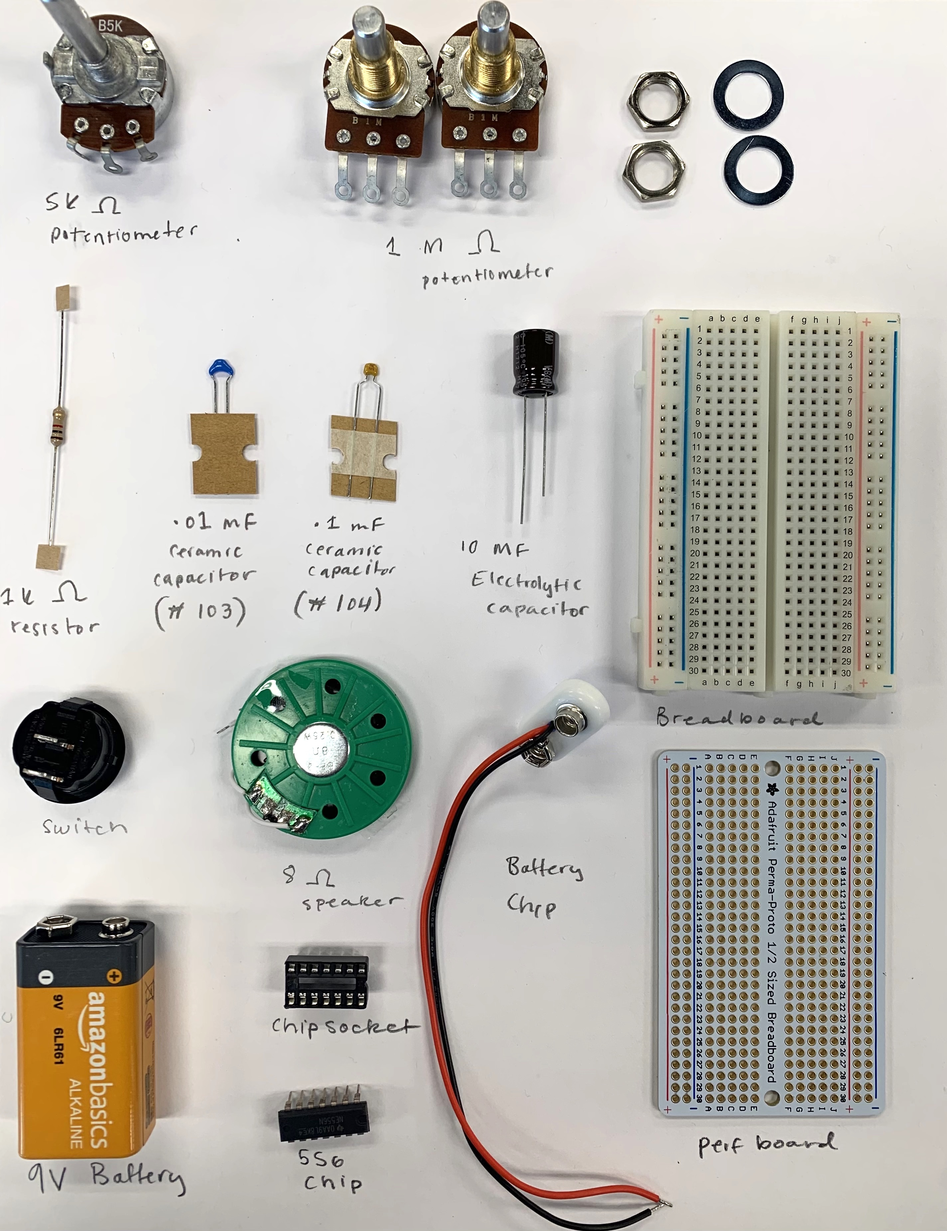
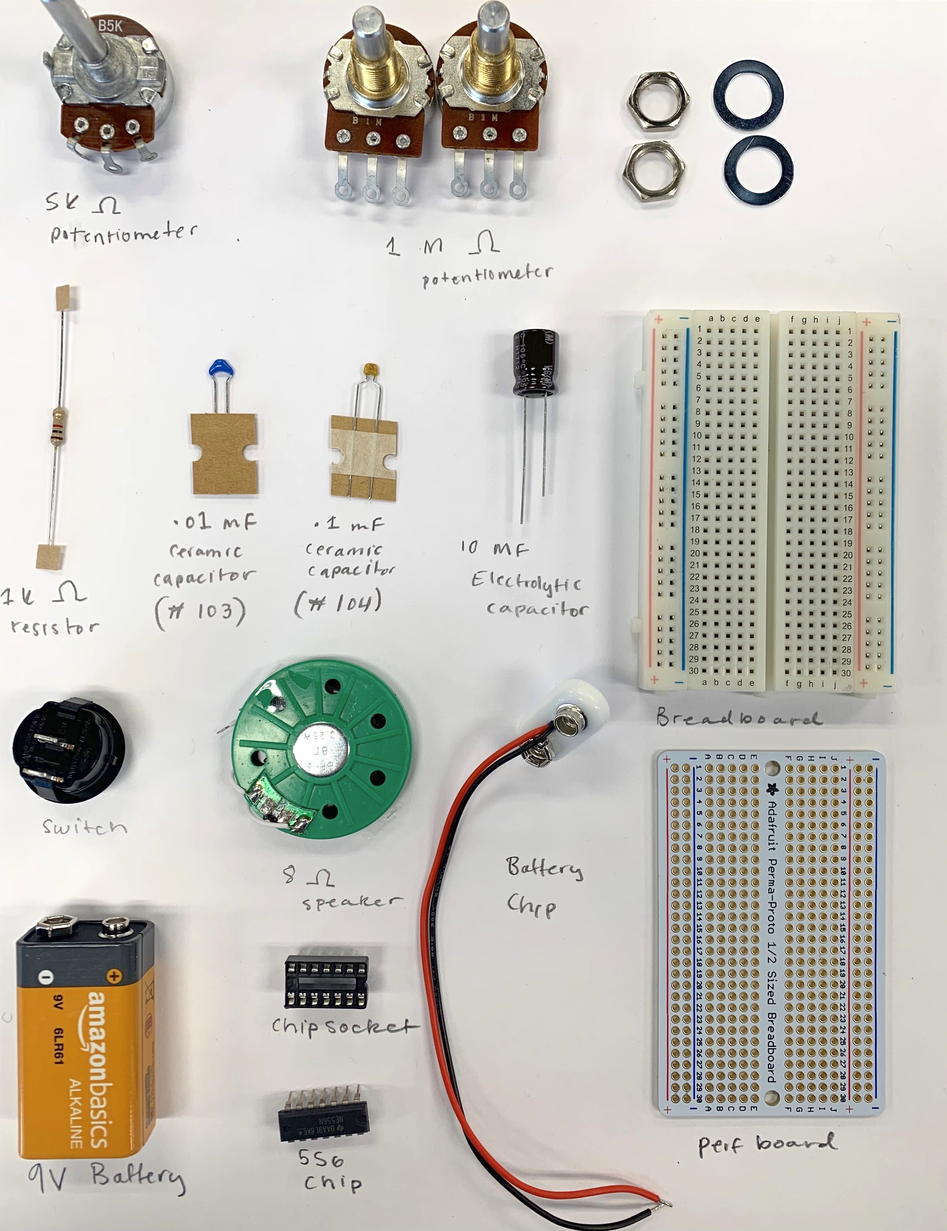
Edits

diff --git a/index.html b/index.html
@@ -57,7 +57,7 @@
   <td>
                <h3> BREADBOARD SYNTHESIZER</h3>
               <a href = "RemoteTeardown/teardown_reflection.html">
-                 <img src="BreadboardSynthesizer/SynthesizerInventory.jpg" width="71%">
+                 <img src="BreadboardSynthesizer/SynthesizerInventory.jpg" width="67%">
               </a>
               </td>
 
